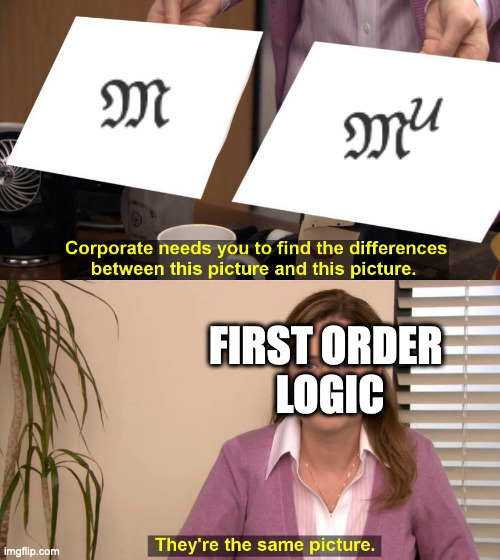
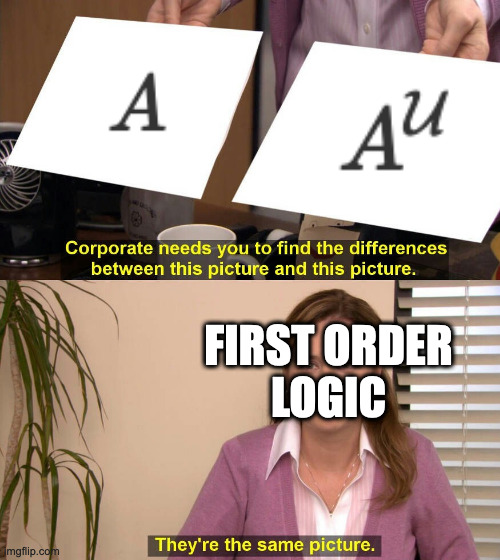
finish the post on ultrapowers

diff --git a/_posts/2021-11-03-ultraproducts-howto.md b/_posts/2021-11-03-ultraproducts-howto.md
@@ -1,6 +1,6 @@
 ---
 layout: post
-title: Using Ultraproducts to Solve Problems
+title: Using Ultrapowers to Solve Problems
 tags:
   - 
 ---
@@ -134,21 +134,71 @@ constant sequence $(a,a,a,a,a,\ldots)$.
 Moreover, since $A$ models its own [diagram][8], we see that $A^\mathcal{U}$
 models the diagram of $A$ as well, in a way that's compatible with the above
 embedding. This means the "constant sequence" function is actually an 
-[elementary embedding][9]. 
+[elementary embedding][9]. So $A$ and $A^\mathcal{U}$ agree on _every_ first
+order question you can ask about $A$.
 
+<img src="/assets/images/ultraproducts-howto/dumb-meme.jpg" width="50%">
 
+Of course, we, from the outside looking in, can tell that $A$ and 
+$A^\mathcal{U}$ look _very_ different! Maybe we can leverage these 
+differences in order to prove things in the $A^\mathcal{U}$ setting!
 
+The canonical example of this phenomenon is [nonstandard analysis][11],
+where we study the "hyperreal numbers"
 
-<img src="/assets/images/ultraproducts-howto/dumb-meme.jpg">
+$${}^* \mathbb{R} \triangleq \mathbb{R}^\mathcal{U}$$
 
-How have ultraproducts been used to solve problems?
+which have lots of nice properties[^7]. For instance, the hyperreal number
 
-- Ramsey Theory
-- Nonstandard analysis
+$$\epsilon \triangleq (1, 1/2, 1/3, 1/4, 1/5, \ldots)$$
 
-Speculative example:
+is an <span class=defn>infinitesimal</span> in the sense that
 
-- Twin primes
+1. $\epsilon \gt 0 = (0,0,0,0,0,\ldots)$
+2. $\epsilon \lt a = (a,a,a,a,a,\ldots)$ for any real number $a \gt 0$.
+
+Then nonstandard analysis uses the extra elements given to us by the 
+ultrapower in order to give us neat and intuitive definitions like the 
+following:
+
+<div class=boxed markdown=1>
+  If $x, y \in {}^* \mathbb{R}$, we say that $x \approx y$ when their
+  difference is infinitesimal.
+</div>
+
+<div class=boxed markdown=1>
+  $f$ is continuous[^8] at $x \in \mathbb{R}$ if and only if
+  $f(x) \approx f(y)$ whenever $x \approx y$
+</div>
+
+Not only do these new definitions give us a new way of thinking[^9] about 
+classical analysis, they're even useful for letting us prove _new_ things! 
+Nowhere is this clearer than on [Terry Tao's blog][12], where he uses 
+nonstandard analysis to great effect!
+
+---
+
+As a last aside, I'll leave you with an old example from [the class][13]
+where I met my undergraduate advisor. I'll leave it as an exercise that 
+might be somewhat tricky depending on how much nonstandard analysis you've
+seen:
+
+<div class=boxed markdown=1>
+  We work inside $\mathbb{N}^\mathcal{U}$.
+
+  Say you were able to prove that there is a nonstandard twin prime.
+  That is, a pair of numbers $p$ and $p+2$ which are both prime, and 
+  neither of which is equivalent to the constant $(q,q,q,q,q,\ldots)$ 
+  for any $q \in \mathbb{N}$.
+
+  Then the twin prime conjecture is true[^10].
+</div>
+
+We've "simplified" the search for infinitely many twin primes into the search
+for _one_ nonstandard twin prime! 
+
+Of course, I have no idea how one would go about _finding_ a nonstandard 
+twin prime! But this is a cute problem nonetheless ^_^.
 
 ---
 
@@ -256,7 +306,47 @@ Speculative example:
     think that $$\underbrace{1 + 1 + \ldots + 1}_{q \text{ times}} \neq 0$$. So
     the ultraproduct is a field, but cannot be characteristic $q$ for any $q \gt 0$.
 
+[^7]:
+    Properties that you can (and should!) read more about in the fantastic 
+    _Lectures on the Hyperreals_ by Goldblatt.
 
+    I have particularly fond memories of this book, because it was one of the
+    first math textbooks that I read by myself, rather than having to read it 
+    for a class.
+
+[^8]:
+    It's important here that $x \in \mathbb{R}$. If we allow 
+    $x \in {}^* \mathbb{R}$, we actually get uniform continuity!
+
+    This may appear counterintuitive at first, but does make some intuitive 
+    sense after a while. Again, I'll point you to Goldblatt's book for more.
+
+[^9]:
+    An old way of thinking? This is much closer to how analysis was thought
+    about before it was placed on a truly rigorous footing through limits.
+
+[^10]:
+    As a hint, first show that a nonstandard natural number must be bigger
+    than every standard natural number. For instance, the standard number $3$
+    satisfies the formula
+
+    $$\forall x . x \lt 3 \iff x = 0 \lor x = 1 \lor x = 2$$
+
+    so the only numbers less than $3$ are standard. Obviously we can do this
+    for any standard number, and the claim follows.
+
+    Next, show that, since $p$ is nonstandard, we must have
+
+    $$\exists p . \text{isTwinPrime}(p) \land p \gt 3$$
+
+    $$\exists p . \text{isTwinPrime}(p) \land p \gt 10,000$$
+
+    $$\exists p . \text{isTwinPrime}(p) \land p \gt 10^{100}$$
+
+    etc. in $\mathbb{N}^\mathcal{U}$. 
+
+    Do you see why (after transferring these theorems back to $\mathbb{N}$)
+    this means there must be infinitely many twin primes?
 
 [1]: https://en.wikipedia.org/wiki/Model_theory
 [2]: https://en.wikipedia.org/wiki/Ultrafilter_(set_theory)
@@ -268,3 +358,6 @@ Speculative example:
 [8]: https://en.wikipedia.org/wiki/Elementary_diagram
 [9]: https://modeltheory.fandom.com/wiki/Elementary_extension
 [10]: /2020/10/01/elementary-vs-submodel.html
+[11]: https://en.wikipedia.org/wiki/Nonstandard_analysis
+[12]: https://terrytao.wordpress.com/tag/nonstandard-analysis/
+[13]: https://www.cs.cmu.edu/~sutner/CDM/index.html
